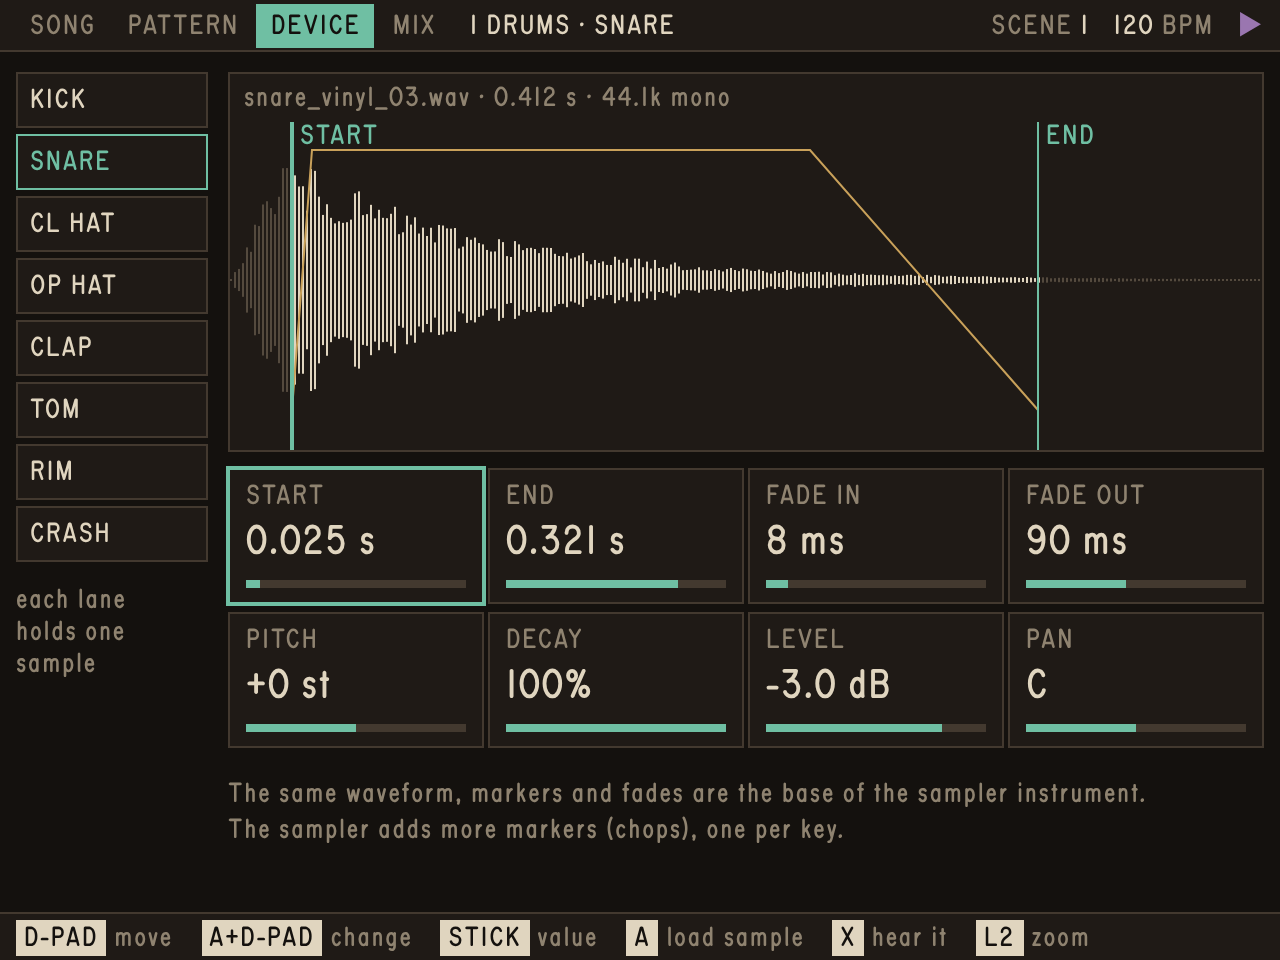
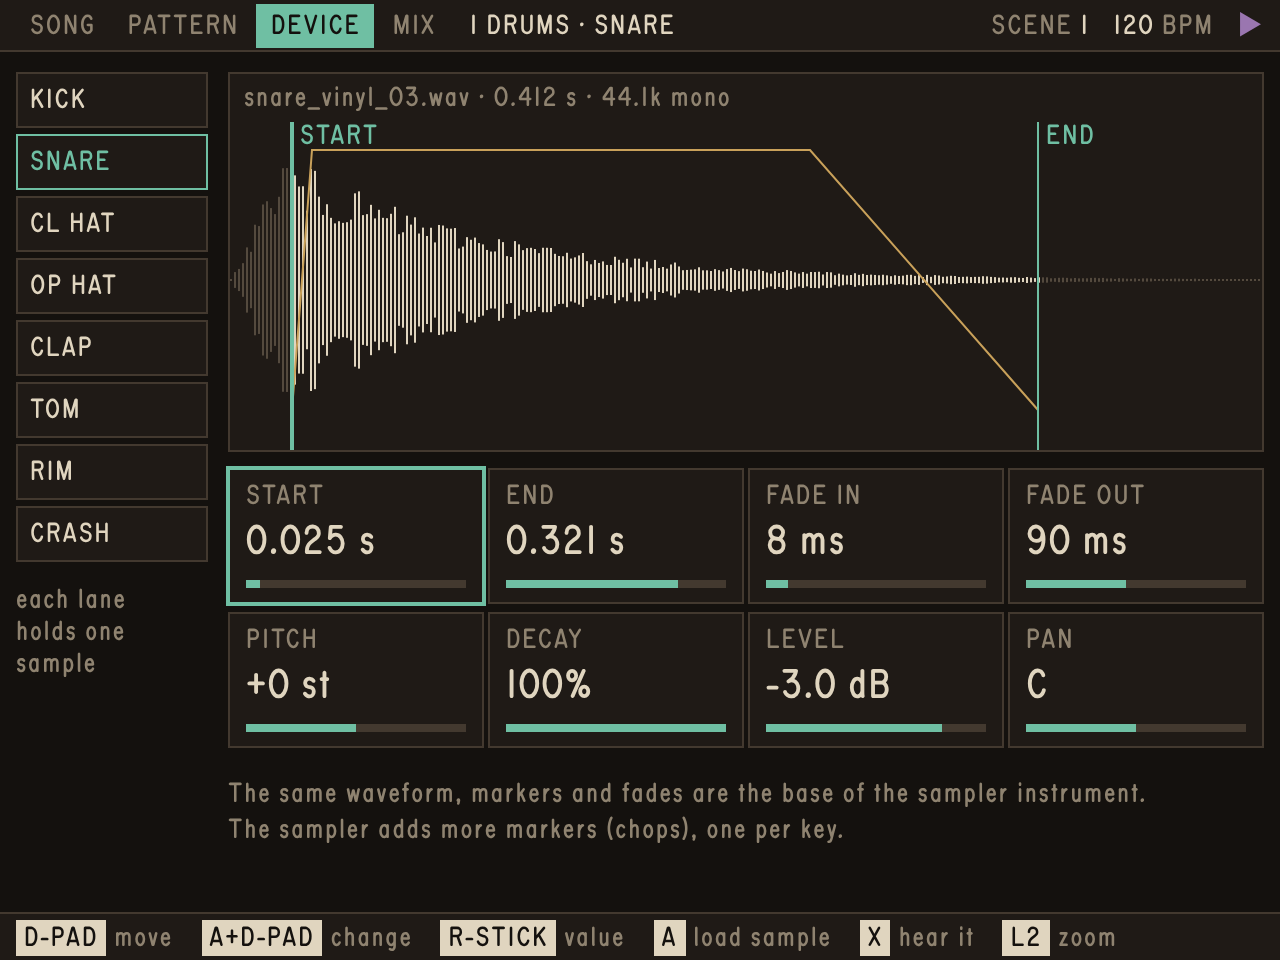
Draw the four missing screens
Add a track, choose an effect, load a sample, and record automation.
The stick hint is now R-STICK on every screen.

Claude-Session: https://claude.ai/code/session_014Mv6qbu5BCdfvxNNbdbNqL

Changed region(s): [[0.3438, 0.9375, 0.875, 1.0]]

diff --git a/docs/screens/screens.html b/docs/screens/screens.html
@@ -13,7 +13,7 @@
      faded amethyst, on dark brown with cream lettering and brass. */
   :root {
     --bg: #14110e; --panel: #1f1a16; --panel2: #2a231d; --line: #43392f;
-    --text: #e0d5bf; --dim: #8f8370; --teal: #6fbfa3; --purple: #9a76b0; --amber: #c9a15a;
+    --text: #e0d5bf; --dim: #8f8370; --teal: #6fbfa3; --purple: #9a76b0; --amber: #c9a15a; --red: #c0604f;
   }
   * { box-sizing: border-box; }
   body { margin: 0; padding: 20px; background: #000; display: flex; flex-wrap: wrap; gap: 20px;
@@ -67,6 +67,11 @@
   .val .bar i { position: absolute; left: 0; top: 0; bottom: 0; background: var(--teal); }
   .box { position: absolute; border: 1px solid var(--line); background: var(--panel); }
   .title { position: absolute; font-size: 12px; color: var(--dim); }
+  .row { position: absolute; background: var(--panel); border: 1px solid var(--line); display: flex;
+         align-items: center; padding: 0 10px; font-size: 14px; white-space: nowrap; }
+  .row .r { margin-left: auto; color: var(--dim); font-size: 12px; }
+  .row.dimmed { color: var(--dim); }
+  .para { position: absolute; color: var(--dim); font-size: 13px; line-height: 19px; }
   .meter { position: absolute; height: 10px; background: var(--line); }
   .meter i { position: absolute; left: 0; top: 0; bottom: 0; background: var(--teal); }
 </style>
@@ -76,6 +81,10 @@
 <section class="screen" id="3-pattern-drums"></section>
 <section class="screen" id="4-device-drums"></section>
 <section class="screen" id="5-mix"></section>
+<section class="screen" id="6-add-track"></section>
+<section class="screen" id="7-choose-effect"></section>
+<section class="screen" id="8-load-sample"></section>
+<section class="screen" id="9-record-automation"></section>
 
 <script>
 // Small repeatable random, so every render is the same picture.
@@ -92,12 +101,12 @@ function el(parent, cls, style, html) {
 }
 const px = n => n + 'px';
 
-function chrome(id, tab, ctx, hints) {
+function chrome(id, tab, ctx, hints, rec) {
   const s = document.getElementById(id);
   const tabs = ['SONG', 'PATTERN', 'DEVICE', 'MIX']
     .map(t => `<div class="tab${t === tab ? ' on' : ''}">${t}</div>`).join('');
   el(s, 'top', {}, `<div class="tabs">${tabs}</div><div class="ctx">${ctx}</div>
-     <div class="right"><span>SCENE <b>1</b></span><span><b>120</b> BPM</span><span style="color:var(--purple)">&#9654;</span></div>`);
+     <div class="right"><span>SCENE <b>1</b></span><span><b>120</b> BPM</span>${rec ? '<span style="color:var(--red)">&#9679; REC</span>' : '<span style="color:var(--purple)">&#9654;</span>'}</div>`);
   el(s, 'hints', {}, hints.map(h => `<span><k>${h[0]}</k>${h[1]}</span>`).join(''));
   return s;
 }
@@ -139,43 +148,72 @@ songScreen('2-song-full', ['DRUMS', 'BASS', 'CHOP', 'KEYS', 'PAD', 'VOX', 'PERC'
            (t, r) => r < 5 && rnd() < 0.72, 'night bus');
 
 // ---- pattern: 8 drum lanes by 16 steps -------------------------------------
-(function () {
-  const s = chrome('3-pattern-drums', 'PATTERN', '1 DRUMS &middot; scene 1',
-                   [['D-PAD', 'move'], ['A', 'place'], ['B', 'delete'], ['A+D-PAD', 'velocity'], ['STICK', 'value'], ['L1 R1', 'track']]);
+// With `auto`, the strip under the grid is the automation lane being recorded.
+function patternScreen(id, auto) {
+  const s = auto
+    ? chrome(id, 'PATTERN', '1 DRUMS &middot; scene 1',
+             [['HOLD Y + R-STICK', 'record'], ['L2', 'pick value'], ['Y + B', 'erase'], ['D-PAD', 'move'], ['START', 'stop']], true)
+    : chrome(id, 'PATTERN', '1 DRUMS &middot; scene 1',
+             [['D-PAD', 'move'], ['A', 'place'], ['B', 'delete'], ['A+D-PAD', 'velocity'], ['R-STICK', 'value'], ['L1 R1', 'track']]);
   const lanes = ['KICK', 'SNARE', 'CL HAT', 'OP HAT', 'CLAP', 'TOM', 'RIM', 'CRASH'];
   const hits = {
     0: { 0: 1, 6: .7, 8: 1, 11: .6 }, 1: { 4: 1, 12: 1, 15: .4 },
     2: { 0: .7, 2: .5, 4: .7, 6: .5, 8: .7, 10: .5, 12: .7 }, 3: { 14: .8 },
     4: { 12: .6 }, 6: { 3: .5, 9: .5 },
   };
-  const left = 116, top = 54, stepW = 32, laneH = 41, cur = [1, 4];
+  const left = 116, top = 54, stepW = 32, laneH = 41, cur = [1, 4], playStep = 6;
   for (let c = 0; c < 16; c++)
     el(s, 'label abs', { left: px(left + c * stepW), top: px(36), width: px(stepW), textAlign: 'center',
                          color: c % 4 === 0 ? 'var(--text)' : '' }, String(c + 1));
   lanes.forEach((name, r) => {
     const y = top + r * laneH;
-    el(s, 'lane' + (r === cur[0] ? ' on' : ''), { top: px(y), height: px(laneH - 3) }, name);
+    el(s, 'lane' + (r === cur[0] && !auto ? ' on' : ''), { top: px(y), height: px(laneH - 3) }, name);
     for (let c = 0; c < 16; c++) {
-      const st = el(s, 'step' + (c % 4 === 0 ? ' beat' : '') + (r === cur[0] && c === cur[1] ? ' cursor' : ''),
+      const st = el(s, 'step' + (c % 4 === 0 ? ' beat' : '') + (r === cur[0] && c === cur[1] && !auto ? ' cursor' : ''),
                     { left: px(left + c * stepW), top: px(y), width: px(stepW - 2), height: px(laneH - 3) });
       const v = (hits[r] || {})[c];
       if (v) el(st, 'hit', { height: px(Math.round(v * (laneH - 11))) });
     }
   });
-  el(s, 'playhead', { left: px(left + 6 * stepW), top: px(top), width: px(stepW - 2), height: px(8 * laneH - 3) });
-  // The step under the cursor, spelled out.
   const y = top + 8 * laneH + 6;
-  const vals = [['LANE', 'SNARE'], ['STEP', '5'], ['VELOCITY', '100'], ['NUDGE', '0'], ['CHANCE', '100%']];
-  vals.forEach((v, i) => {
-    el(s, 'label abs', { left: px(8 + i * 126), top: px(y) }, v[0]);
-    el(s, 'abs', { left: px(8 + i * 126), top: px(y + 16), fontSize: px(16), color: i === 2 ? 'var(--teal)' : '' }, v[1]);
-  });
-})();
+  if (!auto) {
+    el(s, 'playhead', { left: px(left + playStep * stepW), top: px(top), width: px(stepW - 2), height: px(8 * laneH - 3) });
+    // The step under the cursor, spelled out.
+    const vals = [['LANE', 'SNARE'], ['STEP', '5'], ['VELOCITY', '100'], ['NUDGE', '0'], ['CHANCE', '100%']];
+    vals.forEach((v, i) => {
+      el(s, 'label abs', { left: px(8 + i * 126), top: px(y) }, v[0]);
+      el(s, 'abs', { left: px(8 + i * 126), top: px(y + 16), fontSize: px(16), color: i === 2 ? 'var(--teal)' : '' }, v[1]);
+    });
+    return;
+  }
+  // Automation lane: the value's movement, lined up under the steps.
+  const w = 16 * stepW - 2, h = 62, yl = y - 4;
+  el(s, 'lane', { top: px(yl), height: px(h), borderColor: 'var(--red)', flexDirection: 'column', alignItems: 'flex-start',
+                  justifyContent: 'center', gap: '6px', fontSize: px(12) },
+     '<span style="color:var(--dim)">FX 1 CUTOFF</span><span style="font-size:16px;color:var(--red)">2.4 kHz</span>');
+  const box = el(s, 'box', { left: px(left), top: px(yl), width: px(w), height: px(h) });
+  const curve = t => 0.5 + 0.34 * Math.sin(t * 6.3 + 0.6) + 0.1 * Math.sin(t * 21);
+  const now = (playStep + 0.6) / 16;
+  let grid = '', fresh = '', old = '';
+  for (let c = 1; c < 16; c++)
+    grid += `<line x1="${c * stepW - 1}" y1="0" x2="${c * stepW - 1}" y2="${h}" stroke="#43392f" stroke-width="${c % 4 === 0 ? 1 : 0.5}"/>`;
+  for (let i = 0; i <= w; i += 3) {
+    const t = i / w;
+    if (t <= now) fresh += `${i},${(h - 8) * (1 - curve(t)) + 4} `;
+    else old += `${i},${(h - 8) * (1 - (0.45 + 0.12 * Math.sin(t * 9))) + 4} `;
+  }
+  box.innerHTML = `<svg width="${w}" height="${h}" style="position:absolute;left:0;top:0">${grid}
+    <polyline points="${old}" fill="none" stroke="#8f8370" stroke-width="1.5" stroke-dasharray="3 3"/>
+    <polyline points="${fresh}" fill="none" stroke="#c0604f" stroke-width="2"/></svg>`;
+  el(s, 'playhead', { left: px(left + playStep * stepW), top: px(top), width: px(stepW - 2), height: px(yl + h - top) });
+}
+patternScreen('3-pattern-drums', false);
+patternScreen('9-record-automation', true);
 
 // ---- device: one drum lane is a small sampler --------------------------------
 (function () {
   const s = chrome('4-device-drums', 'DEVICE', '1 DRUMS &middot; SNARE',
-                   [['D-PAD', 'move'], ['A+D-PAD', 'change'], ['STICK', 'value'], ['A', 'load sample'], ['X', 'hear it'], ['L2', 'zoom']]);
+                   [['D-PAD', 'move'], ['A+D-PAD', 'change'], ['R-STICK', 'value'], ['A', 'load sample'], ['X', 'hear it'], ['L2', 'zoom']]);
   const lanes = ['KICK', 'SNARE', 'CL HAT', 'OP HAT', 'CLAP', 'TOM', 'RIM', 'CRASH'];
   lanes.forEach((name, r) =>
     el(s, 'lane' + (r === 1 ? ' on' : ''), { top: px(36 + r * 31), height: px(28), width: px(96), fontSize: px(12),
@@ -218,7 +256,7 @@ songScreen('2-song-full', ['DRUMS', 'BASS', 'CHOP', 'KEYS', 'PAD', 'VOX', 'PERC'
 // ---- mix: level, pan, two effect slots ---------------------------------------
 (function () {
   const s = chrome('5-mix', 'MIX', '1 DRUMS',
-                   [['D-PAD', 'move'], ['A+D-PAD', 'change'], ['STICK', 'value'], ['A', 'choose effect'], ['B', 'bypass'], ['L1 R1', 'track']]);
+                   [['D-PAD', 'move'], ['A+D-PAD', 'change'], ['R-STICK', 'value'], ['A', 'choose effect'], ['B', 'bypass'], ['L1 R1', 'track']]);
   // Track list with meters.
   const rows = [['1 DRUMS', .72, true], ['MASTER', .64, false]];
   el(s, 'title', { left: px(8), top: px(36) }, 'TRACKS');
@@ -250,5 +288,90 @@ songScreen('2-song-full', ['DRUMS', 'BASS', 'CHOP', 'KEYS', 'PAD', 'VOX', 'PERC'
       el(s, 'val' + (i === 0 && k === 1 ? ' cursor' : ''), { left: px(x0 + 8 + k * 112), top: px(y + 68), width: px(110), height: px(68), background: 'var(--panel2)' },
          `<div class="n">${v[0]}</div><div class="v" style="font-size:15px">${v[1]}</div><div class="bar"><i style="width:${v[2] * 100}%"></i></div>`));
   });
+})();
+
+// A waveform as thin bars, for previews.
+function waveSvg(w, h, marks) {
+  let bars = '';
+  for (let i = 0; i < w; i += 2) {
+    const t = i / w;
+    const env = t < 0.05 ? t / 0.05 : Math.exp(-(t - 0.05) * 5.2);
+    const bh = Math.max(1, env * (0.55 + 0.45 * rnd()) * (h - 12));
+    bars += `<rect x="${i}" y="${(h - bh) / 2}" width="1" height="${bh}" fill="#e0d5bf"/>`;
+  }
+  (marks || []).forEach(m => bars += `<line x1="${m * w}" y1="0" x2="${m * w}" y2="${h}" stroke="#6fbfa3" stroke-width="1"/>`);
+  return `<svg width="${w}" height="${h}" style="position:absolute;left:0;top:0">${bars}</svg>`;
+}
+
+// ---- add a track: pick its instrument ----------------------------------------
+(function () {
+  const s = chrome('6-add-track', 'SONG', 'add track 2 of 12', [['D-PAD', 'move'], ['A', 'add track'], ['B', 'cancel'], ['X', 'hear it']]);
+  el(s, 'title', { left: px(8), top: px(36) }, 'INSTRUMENT');
+  const list = [['DRUMS', '8 lanes'], ['SAMPLER', 'chops']];
+  list.forEach((r, i) =>
+    el(s, 'row' + (i === 1 ? ' cursor' : ''), { left: px(8), top: px(54 + i * 50), width: px(220), height: px(46), fontSize: px(16),
+                                               color: i === 1 ? 'var(--teal)' : '' }, `${r[0]}<span class="r">${r[1]}</span>`));
+  el(s, 'para', { left: px(8), top: px(166), width: px(220) }, 'More instruments<br>appear in this list<br>as they are built.');
+  const x = 240, w = 392;
+  el(s, 'box', { left: px(x), top: px(54), width: px(w), height: px(372) });
+  el(s, 'abs', { left: px(x + 14), top: px(70), fontSize: px(22) }, 'SAMPLER');
+  el(s, 'para', { left: px(x + 14), top: px(104), width: px(w - 28) },
+     'One sample, cut into pieces called chops.<br>Each chop plays from its own note, so a<br>pattern can replay the pieces in any order.');
+  const wave = el(s, 'box', { left: px(x + 14), top: px(180), width: px(w - 28), height: px(110), background: 'var(--panel2)' });
+  wave.innerHTML = waveSvg(w - 30, 108, [0.02, 0.21, 0.37, 0.52, 0.7, 0.86]);
+  ['1', '2', '3', '4', '5', '6'].forEach((n, i) =>
+    el(s, 'abs', { left: px(x + 20 + [0.02, 0.21, 0.37, 0.52, 0.7, 0.86][i] * (w - 30)), top: px(184), fontSize: px(12), color: 'var(--teal)' }, n));
+  el(s, 'para', { left: px(x + 14), top: px(304), width: px(w - 28) },
+     'Starts empty. Load a sample on the DEVICE screen.<br>The new track is added to the right of DRUMS,<br>with two empty effect slots.');
+})();
+
+// ---- choose an effect for a slot -----------------------------------------------
+(function () {
+  const s = chrome('7-choose-effect', 'MIX', '1 DRUMS &middot; FX 2', [['D-PAD', 'move'], ['A', 'choose'], ['B', 'cancel'], ['X', 'hear with / without']]);
+  el(s, 'title', { left: px(8), top: px(36) }, 'EFFECT');
+  const list = [['EMPTY', ''], ['FILTER', 'light'], ['EQ', 'light'], ['DRIVE', 'light'], ['CRUSHER', 'light'],
+                ['COMPRESSOR', 'light'], ['DELAY', 'medium'], ['CHORUS', 'medium'], ['REVERB', 'heavy']];
+  list.forEach((r, i) =>
+    el(s, 'row' + (i === 6 ? ' cursor' : '') + (i === 0 ? ' dimmed' : ''),
+       { left: px(8), top: px(54 + i * 41), width: px(220), height: px(38), color: i === 6 ? 'var(--teal)' : '' },
+       `${r[0]}<span class="r" style="${r[1] === 'heavy' ? 'color:var(--amber)' : ''}">${r[1]}</span>`));
+  const x = 240, w = 392;
+  el(s, 'box', { left: px(x), top: px(54), width: px(w), height: px(366) });
+  el(s, 'abs', { left: px(x + 14), top: px(70), fontSize: px(22) }, 'DELAY');
+  el(s, 'para', { left: px(x + 14), top: px(104), width: px(w - 28) }, 'Echoes, timed to the song.');
+  [['TIME', '1/8 D'], ['FEEDBACK', '35%'], ['TONE', '60%'], ['MIX', '25%']].forEach((v, k) =>
+    el(s, 'val', { left: px(x + 14 + (k % 2) * 184), top: px(140 + Math.floor(k / 2) * 72), width: px(180), height: px(68), background: 'var(--panel2)' },
+       `<div class="n">${v[0]}</div><div class="v" style="font-size:15px">${v[1]}</div>`));
+  el(s, 'title', { left: px(x + 14), top: px(300) }, 'PROCESSOR LOAD');
+  el(s, 'meter', { left: px(x + 14), top: px(320), width: px(w - 28) }, '<i style="width:46%"></i><i style="left:46%;width:9%;background:var(--amber)"></i>');
+  el(s, 'para', { left: px(x + 14), top: px(340), width: px(w - 28) },
+     'Green is what the song uses now. Brass is what<br>this effect would add. Each slot holds four settings.');
+})();
+
+// ---- load a sample from the card ------------------------------------------------
+(function () {
+  const s = chrome('8-load-sample', 'DEVICE', '1 DRUMS &middot; SNARE &middot; load sample',
+                   [['D-PAD', 'move'], ['A', 'load / open'], ['B', 'up a folder'], ['X', 'hear it'], ['L1 R1', 'page']]);
+  el(s, 'title', { left: px(8), top: px(36) }, 'SD CARD / samples / drums / snares');
+  const files = [['..', '', 'up'], ['808', 'folder', 'f'], ['vinyl', 'folder', 'f'], ['snare_bright.wav', '0.28 s', ''],
+                 ['snare_brush.wav', '0.61 s', ''], ['snare_tight.wav', '0.19 s', ''], ['snare_vinyl_01.wav', '0.39 s', ''],
+                 ['snare_vinyl_02.wav', '0.44 s', ''], ['snare_vinyl_03.wav', '0.41 s', ''], ['snare_wide.wav', '0.52 s', ''],
+                 ['rim_dry.wav', '0.11 s', ''], ['rim_room.wav', '0.33 s', '']];
+  files.forEach((f, i) =>
+    el(s, 'row' + (i === 8 ? ' cursor' : ''), { left: px(8), top: px(54 + i * 32), width: px(300), height: px(29),
+                                               color: i === 8 ? 'var(--teal)' : (f[2] ? 'var(--amber)' : '') },
+       `${f[2] === 'f' ? f[0] + ' /' : f[0]}<span class="r">${f[1]}</span>`));
+  el(s, 'label abs', { left: px(8), top: px(440) }, '9 of 23');
+  const x = 320, w = 312;
+  el(s, 'box', { left: px(x), top: px(54), width: px(w), height: px(382) });
+  el(s, 'abs', { left: px(x + 12), top: px(68), fontSize: px(16) }, 'snare_vinyl_03.wav');
+  const wave = el(s, 'box', { left: px(x + 12), top: px(98), width: px(w - 24), height: px(130), background: 'var(--panel2)' });
+  wave.innerHTML = waveSvg(w - 26, 128);
+  [['LENGTH', '0.412 s'], ['RATE', '44.1 kHz'], ['CHANNELS', 'mono'], ['SIZE', '36 KB']].forEach((v, k) => {
+    el(s, 'label abs', { left: px(x + 12 + (k % 2) * 150), top: px(244 + Math.floor(k / 2) * 46) }, v[0]);
+    el(s, 'abs', { left: px(x + 12 + (k % 2) * 150), top: px(262 + Math.floor(k / 2) * 46), fontSize: px(16) }, v[1]);
+  });
+  el(s, 'para', { left: px(x + 12), top: px(346), width: px(w - 24) },
+     'Loads into the SNARE lane of 1 DRUMS.<br>Moving the cursor plays the file if<br>the song is stopped.');
 })();
 </script>
